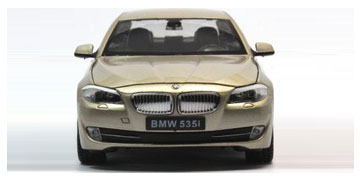
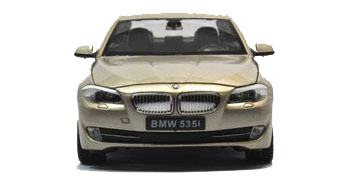
订单页面UI调整（修改了蒙版图片颜色，使得白色能够显示，待商榷）

diff --git a/src/model/order/order.less b/src/model/order/order.less
@@ -6,24 +6,30 @@ body{
   margin: 0;
   padding: 0;
   .image-panel{
+    text-align: center;
+    padding-top: 10px;
     .bg_white;
     img{
-      width: 100%;
+      width: 70%;
     }
     .car-name{
       font-size: 14px;
       font-weight: 600;
       color: #666666;
-      padding: 6px 0;
+      padding: 10px 0;
       margin: 4px 22px;
       position: relative;
+      #carName{
+        position: absolute;
+        top: 0;
+        left: 0;
+      }
     }
     #price{
       color: @theme_col;
       position: absolute;
-      top: 0;
+      top: -6px;
       right: 10px;
-      margin-left: 76px;
       font-size: 18px;
     }
   }
@@ -35,7 +41,7 @@ body{
     .bg_white;
     .urgent{
       .priority{
-        margin: 10px 25px;
+        margin: 5px 25px;
       }
     }
   }
@@ -58,10 +64,10 @@ body{
     outline: none;
   }
   .color-disabled{
[2 lines of base64/hex data omitted]
   }
   .color-selected{
[2 lines of base64/hex data omitted]
   }
   .color0{
     background-color: white;
@@ -92,14 +98,21 @@ hr{
   border-top:1px solid @grey;
   margin-top: 5px;
 }
+.type-list,.color-list,.urgent-list{
+  margin-left: 45px;
+}
 .type-title,.color-title,.urgent-title{
   margin-left: 10px;
   color: #888888;
   font-size: 12px;
+  position: absolute;
+  top: 8px;
+  left: 0;
 }
 .car-type,.color,.urgent{
   margin: 10px;
   margin-bottom: 0;
+  position: relative;
 }
 .btn-unavailable {
   background-color: @darker_grey;

diff --git a/controllers/order.js b/controllers/order.js
@@ -10,7 +10,8 @@ exports.show = function(req, res, next) {
 
 exports.select = function(req, res, next) {
   //console.log("openID: ");
-  console.log('userID: ' + req.query.access_token);
+  //console.log('userID: ' + req.query.userID);
+  var userId = 1;
   res.render('order/order', {order_js_src: i18n.__('order_js_src')});
 };
 

diff --git a/service/user.js b/service/user.js
@@ -1,6 +1,6 @@
-var User = require('../../models/user.js');
+var User = require('../models/user.js');
 
 exports.create = function(user){
 	var newUser = new User(user);
 	return newUser.save();
-}
+};
